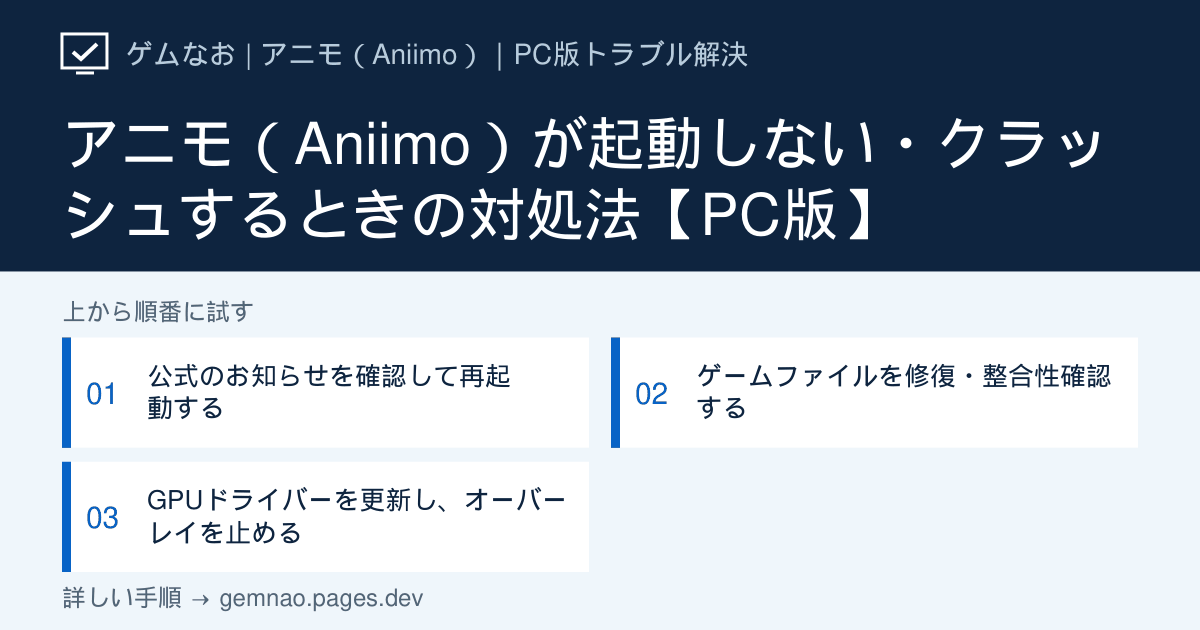
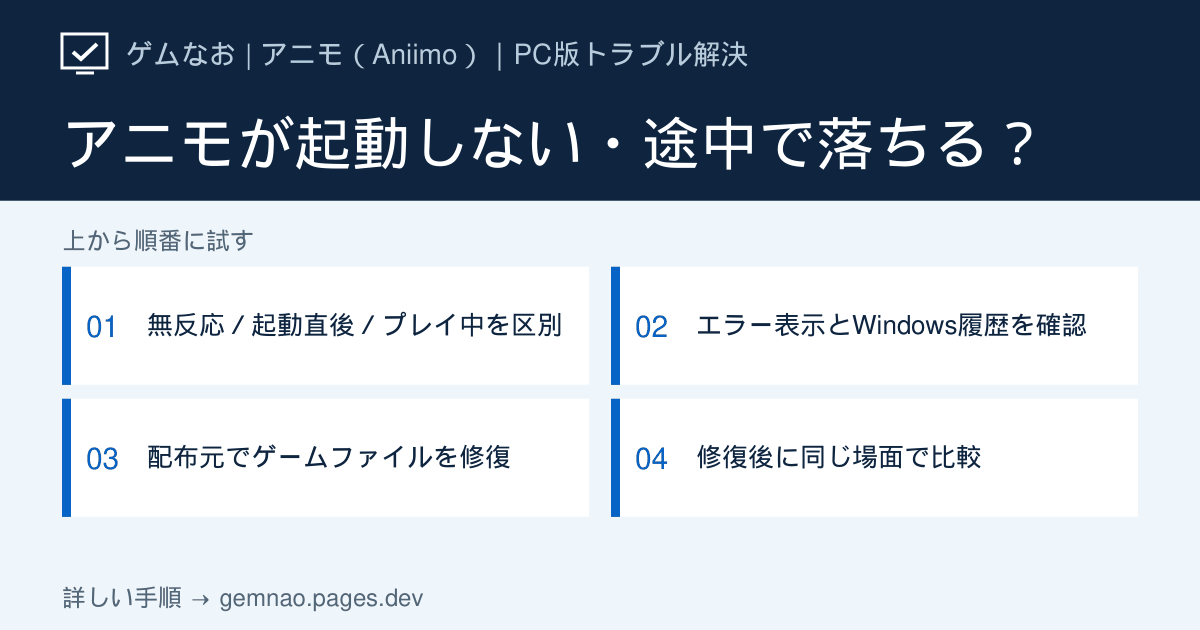
Rewrite Aniimo launch and crash troubleshooting by failure stage

diff --git a/lib/aniimo-articles.ts b/lib/aniimo-articles.ts
@@ -10,6 +10,30 @@ const steamStore = {
   label: 'Aniimo Steamストア',
   url: 'https://store.steampowered.com/app/4126040/Aniimo/',
 };
+const pcLaunchFaq = {
+  label: 'Aniimo公式FAQ：PC版の起動・ワンクリック修復・エラー表示',
+  url: 'https://aniimo.com/ja/newslist/detail/100091',
+};
+const steamVerifyGuide = {
+  label: 'Steam公式サポート：ゲームファイルの整合性を確認する方法',
+  url: 'https://help.steampowered.com/en/faqs/view/0C48-FCBD-DA71-93EB',
+};
+const windowsEventViewer = {
+  label: 'Microsoft公式：イベント ビューアーで日時・イベントを確認する',
+  url: 'https://support.microsoft.com/ja-jp/windows/experience/system-configuration-tools-in-windows',
+};
+const windowsProtectionHistory = {
+  label: 'Microsoft公式：Windowsセキュリティの保護の履歴',
+  url: 'https://support.microsoft.com/en-us/windows/security/windows-security/protection-history-in-the-windows-security-app',
+};
+const aniimoIntelIssue = {
+  label: 'Aniimo公式：Intel第13・14世代CPUの安定性問題',
+  url: 'https://aniimo.com/ja/newslist/detail/100102',
+};
+const aniimoRelease = {
+  label: 'Aniimo公式：正式リリースと日本語サポート窓口',
+  url: 'https://aniimo.com/newslist/detail/100117',
+};
 const related = [
   'not-launching',
   'black-screen',
@@ -23,87 +47,213 @@ export const aniimoArticles: GameArticle[] = [
     gameSlug: 'aniimo',
     slug: 'not-launching',
     category: 'launch',
-    title: 'アニモ（Aniimo）が起動しない・クラッシュするときの対処法【PC版】',
+    title: 'アニモ（Aniimo）が起動しない・途中で落ちるときの直し方【PC版】',
     shortTitle: '起動しない・クラッシュ',
     symptom:
-      'ランチャーから開始しても反応しない、起動直後に終了する、プレイ中にクラッシュする場合の切り分け手順です。',
+      '「ゲーム開始」を押しても無反応、画面が一瞬出て閉じる、遊んでいる途中で落ちる。この3つは確認する場所が異なります。最後に正常だった地点から、下の早見表で手順を選んでください。',
     conclusion:
-      '公式のお知らせを確認し、ランチャーまたはSteamとPCを再起動してから、ゲームファイルの修復・整合性確認を行います。',
+      'ランチャーすら開かない場合は公式FAQの権限確認、ゲームがすぐ閉じる場合は表示されたエラーとファイル修復、プレイ中だけ落ちる場合はWindowsのアプリ履歴と描画環境を確認します。修復後は同じ場面を再現して結果を比べます。',
     description:
-      '正式サービス開始直後は、端末側の破損だけでなくメンテナンスやランチャー更新が原因の場合もあります。公式情報を確認してから、元に戻せる操作を1つずつ試してください。',
-    checkedAt,
+      '公式ランチャー版とSteam版では修復する画面が違います。エラー文や履歴は原因を断定する証拠ではなく、次に何を調べるかを絞る手がかりです。',
+    checkedAt: '2026-09-27',
     status: 'verified',
-    targetVersion,
+    targetVersion: 'Windows PC版（公式ランチャー・Steam）／2026年9月27日確認',
+    quickFacts: [
+      {
+        label: '最初に記録',
+        value:
+          'ランチャー無反応／起動直後／プレイ中のどこで止まるか、エラー全文と発生時刻',
+      },
+      {
+        label: '公式ランチャー版の修復',
+        value: '右上の「設定」→「ワンクリック修復」',
+      },
+      {
+        label: 'Steam版の修復',
+        value:
+          'ライブラリ→Aniimoの「プロパティ」→「インストール済みファイル」→整合性確認',
+      },
+      {
+        label: 'PCの最低条件',
+        value:
+          '64ビット版Windows 10、RAM 8GB、DirectX 11、空き容量40GBなど（Steam掲載）',
+      },
+    ],
     causes: [
-      'メンテナンスや配信直後のランチャー更新',
-      'ダウンロード済みファイルの不足・破損',
-      '古いGPUドライバーや描画オーバーレイとの競合',
-      'PCがSteamストアに掲載された動作要件を満たしていない',
+      'ランチャーの権限・更新、または起動対象の違い',
+      '破損・不足ファイル、セキュリティソフトによる隔離',
+      'OS・空き容量・描画環境とゲームの動作要件の不一致',
+      'プレイ中にだけ再現する不具合、特定CPU環境の安定性問題',
     ],
     symptoms: [
-      { label: '開始を押しても反応しない', target: 'check-official' },
+      { label: 'ランチャー自体が無反応', target: 'launcher-no-response' },
+      { label: 'ゲーム開始を押しても無反応', target: 'repair-files' },
       { label: '起動直後に落ちる', target: 'repair-files' },
-      { label: 'プレイ中にクラッシュする', target: 'update-driver' },
+      { label: 'エラーが表示される', target: 'read-error' },
+      { label: 'プレイ中だけ落ちる', target: 'crash-during-play' },
+      { label: '修復後も落ちる', target: 'review-after-repair' },
+    ],
+    diagnosis: [
+      {
+        symptom: 'ランチャーのアイコンを押しても画面が開かない',
+        cause: 'ゲームファイルより、ランチャーの起動や権限を確認',
+        stepId: 'launcher-no-response',
+      },
+      {
+        symptom: 'ランチャーは開くが「ゲーム開始」で無反応',
+        cause: '更新待ち・ファイル不整合・隔離の可能性を分ける',
+        stepId: 'repair-files',
+      },
+      {
+        symptom: 'ロゴが出てすぐ終了する／エラーなしで閉じる',
+        cause: '発生時刻を控え、ファイル修復後にWindowsの履歴と比較',
+        stepId: 'repair-files',
+      },
+      {
+        symptom: '「Falied to load il2cpp」が表示される',
+        cause: '公式FAQが案内する隔離・ブロック履歴を先に確認',
+        stepId: 'read-error',
+      },
+      {
+        symptom: 'Windows非対応／容量不足／ネットワークエラーが表示される',
+        cause: '表示内容ごとにOS・保存先の空き・通信を確認',
+        stepId: 'read-error',
+      },
+      {
+        symptom: '遊んでいる途中で毎回落ちる',
+        cause: '場所・経過時間とアプリのエラー履歴を照合',
+        stepId: 'crash-during-play',
+      },
+      {
+        symptom: '修復で再取得された／何も変わらないのに再発',
+        cause: '再現テストの結果で次の確認先を選ぶ',
+        stepId: 'review-after-repair',
+      },
     ],
     steps: [
       {
-        id: 'check-official',
-        title: '公式のお知らせを確認して再起動する',
+        id: 'record-crash',
+        title: '最後に動いていた地点とWindowsのエラー履歴を記録する',
         summary:
-          '障害・メンテナンス・必須更新がある間は、PC設定を変えても直りません。',
+          '無反応、起動直後、プレイ中のどこで止まるかと、エラーがWindowsに残ったかを先に見ます。',
         actions: [
-          'Aniimo公式ニュースで最新のお知らせを確認する',
-          'ゲームとランチャーまたはSteamを完全に終了する',
-          'Windowsを再起動する',
-          'ランチャーの更新が終わってから1回だけ起動を試す',
+          '表示されたエラー文やコードをそのまま控える。表示がなければ、落ちた時刻と直前の操作（起動、ロード、戦闘など）を控える',
+          'Windowsのスタートを右クリック→「イベント ビューアー」を開き、「Windowsログ」→「Application（アプリケーション）」を選ぶ',
+          '発生時刻付近の「エラー」を開き、ゲームまたはランチャーに関係するアプリ名・障害が発生したモジュール名・例外コードがあれば控える',
+          '同じ時刻のログが見つからなくても決めつけず、早見表から症状に合うSTEPへ進む',
         ],
+        note: '「Application Error」などの履歴は調査の手がかりです。エラー名だけでGPUやWindowsの故障とは断定できません。',
+      },
+      {
+        id: 'launcher-no-response',
+        title: 'ランチャー自体が開かない場合の確認',
+        summary:
+          '公式ランチャーとSteamで起動する入口を確認し、権限不足を切り分けます。',
+        actions: [
+          '公式のお知らせでメンテナンスや更新案内を確認。ダウンロード・更新が続いていれば終了を待つ',
+          'Steam版はSteamのライブラリからAniimoを起動し、Steam自体が開くか確認する。公式ランチャー版は公式配布のランチャーを使う',
+          '公式ランチャーが無反応ならWindowsを再起動。なお開かなければ、公式FAQに沿ってランチャーのアイコンを右クリック→「管理者として実行」→「はい」を1回試す',
+          'ランチャーが開いたなら次は「ゲーム開始」を押して結果を見る。開かなければ発生時刻とエラー履歴を控え、公式窓口 support_jp@aniimo.com へ相談する',
+        ],
+      },
+      {
+        id: 'read-error',
+        title: 'エラー表示を読み、内容に合った場所だけ確認する',
+        summary:
+          'ゲーム固有の表示を、一般的なクラッシュと同じ手順で片付けないための確認です。',
+        actions: [
+          '「Falied to load il2cpp」（公式FAQの表記）の場合はWindowsの「Windows セキュリティ」→「ウイルスと脅威の防止」→「保護の履歴」を開き、Aniimoのファイルが隔離された記録を確認する',
+          '隔離されたファイルが公式配布のAniimoのものと確かめられる場合のみ、セキュリティ製品の案内に従って個別に復元・許可する。不明な検出を無条件に許可しない',
+          'Windowsのバージョン非対応と出た場合は「設定」→「システム」→「バージョン情報」でOSとシステムの種類を確認。最低条件は64ビット版Windows 10',
+          'ディスク容量不足ならインストール先ドライブの空き容量を確認。ネットワークエラーならランチャーの通信と公式のお知らせを確認する',
+        ],
+        note: '音が出て白画面のまま、真っ暗な画面が続く場合は「黒画面」の関連記事へ。エラーがない場合は次のファイル修復を試します。',
       },
       {
         id: 'repair-files',
-        title: 'ゲームファイルを修復・整合性確認する',
-        summary: '不足または破損したファイルを配信元に確認させます。',
+        title: '起動直後に落ちる・開始が無反応なら配布元で修復する',
+        summary:
+          'ランチャーの修復とSteamの整合性確認は入口が異なります。結果を見て次に進みます。',
         actions: [
-          '公式ランチャー版は、修復・チェック機能が表示される場合に実行する',
-          'Steam版はライブラリでAniimoを右クリックする',
-          '「プロパティ」→「インストール済みファイル」を開く',
-          '「ゲームファイルの整合性を確認」を実行する',
-          '完了後にPCを再起動する',
+          'ゲームを終了する。公式ランチャー版はランチャー右上の「設定」→「ワンクリック修復」を実行し、終了後にランチャーを再起動する',
+          'Steam版はライブラリでAniimoを右クリック→「プロパティ」→「インストール済みファイル」→「ゲームファイルの整合性を確認」を押す',
+          '修復・確認が終わるまで待ち、再取得の有無を控える。再取得されたら「ゲーム開始」を1回試し、ロゴを越えてゲーム内まで進めるか確認する',
+          '再取得されない／再取得しても同じ時点で落ちるなら、次の「修復後の結果別判断」へ進む',
         ],
-        note: '再インストールは最後にします。先に修復すれば、不要な再ダウンロードを避けられます。',
+        note: '公式ランチャーの「ワンクリック修復」はAniimo公式FAQに掲載されています。Steamの画面操作はSteam公式サポートの案内です。',
       },
       {
-        id: 'update-driver',
-        title: 'GPUドライバーを更新し、オーバーレイを止める',
-        summary: '描画開始時のクラッシュ要因を分けて確認します。',
+        id: 'review-after-repair',
+        title: '修復した後、結果に応じて次の確認先を決める',
+        summary:
+          '修復の成功表示とゲームが安定して動くことは別なので、同じ操作で再現を確認します。',
         actions: [
-          'GPUメーカー公式サイトから使用中GPU向けドライバーを確認する',
-          '更新後にWindowsを再起動する',
-          'Discord・録画・FPS表示などのオーバーレイを一時停止する',
-          'Aniimoだけを起動して再確認する',
+          'ゲームに入れるようになったら、以前落ちた地点（起動直後／同じロード／同じプレイ場面）まで進め、1回だけ再現するか確かめる',
+          '修復で再取得され、同じエラーが再発する場合は「保護の履歴」に再度隔離された記録がないか確認する。別のファイル名ならサポートにそのまま伝える',
+          '修復で変化がなく、毎回起動直後に落ちるならSteamの動作要件とWindowsのエラー履歴を見て、GPU・描画を確認する',
+          'ゲームは起動するが長時間後や特定の場面だけで落ちるなら、次のプレイ中の切り分けへ進む',
         ],
+      },
+      {
+        id: 'crash-during-play',
+        title: 'プレイ中だけ落ちるなら再現場面と描画環境を分ける',
+        summary:
+          'ゲームが起動できる状態では、毎回落ちる場面とPC側の変化を比較します。',
+        actions: [
+          '戦闘・移動・ロードなど落ちた場面とプレイ開始からの時間を記録し、イベント ビューアーの同時刻に新しいエラーがあるか確認する',
+          'ゲーム内で画質を一段階下げ、Discord・録画ソフトなどのオーバーレイを一つだけ停止して、同じ場所・操作で再現するか比べる',
+          '描画開始時から毎回落ちる場合は、Steamの最低条件（GPU・メモリ・DirectX 11）とPCの仕様を比較し、GPUメーカー公式のドライバーに更新したら再起動して再確認する',
+          'Intel Core第13・14世代の対象機種でクラッシュや「ビデオメモリ不足」が繰り返されるなら、Aniimo公式のCPU安定性案内を確認する。BIOS更新などはPCメーカーの指示を確認して進める',
+        ],
+        note: '同じ場面で多くの人に起きると確認できれば更新情報を確認。1台だけで再発する場合は発生時刻・エラー名・PC構成を添え、ゲーム内のF10または support_jp@aniimo.com へ報告します。',
       },
     ],
     cautions: [
-      'Aniimo公式が案内していないDLL配布サイトや「修復ツール」は使用しないでください。',
-      '複数の設定を同時に変えず、各手順の後に起動を確認してください。',
+      '再インストールやゲームフォルダの手動削除に進む前に、ゲームのアカウント連携先とインストール元を確かめてください。',
+    ],
+    avoid: [
+      'エラー文を控える前に非公式DLLや「万能修復ツール」を導入しない。',
+      'Aniimo以外の検出を含め、セキュリティ機能全体を無効にしない。隔離ファイルが公式配布か確かめられない場合は復元しない。',
+      '複数の設定を同時に変えない。直った手順が分からなくなります。',
     ],
     faqs: [
       {
-        question: 'Aniimoが起動しないとき、最初に何をすればよいですか？',
+        question:
+          '公式ランチャーに「ワンクリック修復」があるのに見つかりません',
         answer:
-          '公式ニュースでメンテナンスや更新を確認し、ランチャーまたはSteamとPCを再起動してください。次にファイル修復・整合性確認を行います。',
+          '公式ランチャーの右上「設定」にあります。Steam版では同じ項目名を探さず、ライブラリのAniimoを右クリック→「プロパティ」→「インストール済みファイル」から整合性確認を実行してください。',
       },
       {
-        question: 'Aniimoをすぐ再インストールした方がよいですか？',
+        question: 'ゲームファイルを修復したのに、まだ落ちるのはなぜ？',
         answer:
-          '先に修復・整合性確認を試します。再インストールは、公式情報とほかの手順を確認しても直らない場合の最後の候補です。',
+          '修復で再取得されたのに同じエラーが繰り返されるなら、セキュリティ製品に再隔離されていないか確認します。何も変わらず毎回同じ時点で落ちるなら、Windowsの同時刻のエラー履歴と動作要件を見てください。',
+      },
+      {
+        question: 'エラー表示がなく突然閉じる場合、何をサポートに送ればよい？',
+        answer:
+          '公式ランチャー版かSteam版か、発生時刻、起動直後かプレイ中か、再現する操作、試した修復結果、イベント ビューアーで一致したアプリ名・例外コードがあれば控えてください。ゲームに入れる場合はメニュー→カスタマーサポートまたはF10、入れない場合は公式窓口 support_jp@aniimo.com に報告できます。',
       },
     ],
-    sources: [officialNews, steamStore],
+    sources: [
+      pcLaunchFaq,
+      steamVerifyGuide,
+      steamStore,
+      windowsEventViewer,
+      windowsProtectionHistory,
+      aniimoIntelIssue,
+      aniimoRelease,
+    ],
     related: related.filter((slug) => slug !== 'not-launching'),
-    seoTitle: 'アニモ（Aniimo）が起動しない・クラッシュする時の対処法【PC版】',
+    seoTitle: 'アニモ（Aniimo）が起動しない・途中で落ちる原因と直し方【PC版】',
     metaDescription:
-      'アニモ（Aniimo）PC版が起動しない、起動直後に落ちる、クラッシュするときの直し方。公式情報の確認、ファイル修復、GPUドライバーを順番に解説します。',
+      'アニモ（Aniimo）PC版が無反応・起動直後に落ちる・プレイ中にクラッシュする原因を症状別に整理。公式ランチャーとSteamの修復場所、エラー表示・Windowsの履歴、修復後の判断を解説。',
+    ogTitle: 'アニモが起動しない・途中で落ちる？',
+    ogSteps: [
+      '無反応／起動直後／プレイ中を区別',
+      'エラー表示とWindows履歴を確認',
+      '配布元でゲームファイルを修復',
+      '修復後に同じ場面で比較',
+    ],
   },
   {
     gameSlug: 'aniimo',

diff --git a/lib/og-image-manifest.ts b/lib/og-image-manifest.ts
@@ -38,7 +38,7 @@ export const ogImageManifest: Record<string, string> = {
   "/games/aniimo/black-screen": "a14b8ac4",
   "/games/aniimo/launcher-display": "950a3a59",
   "/games/aniimo/login-error": "c5c34110",
-  "/games/aniimo/not-launching": "981b09f3",
+  "/games/aniimo/not-launching": "0cedb67a",
   "/games/aniimo/video-memory-error": "eedbb3ce",
   "/games/elden-ring": "7b6f68c6",
   "/games/elden-ring/fps": "de4d8353",
